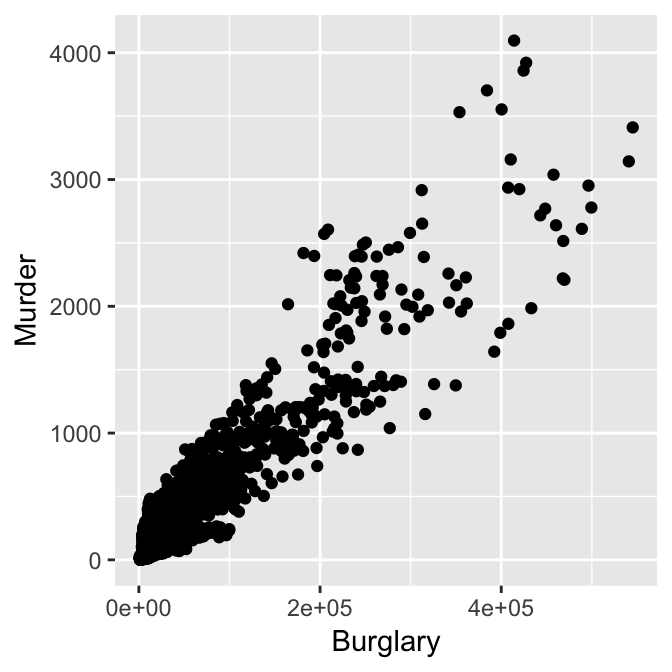
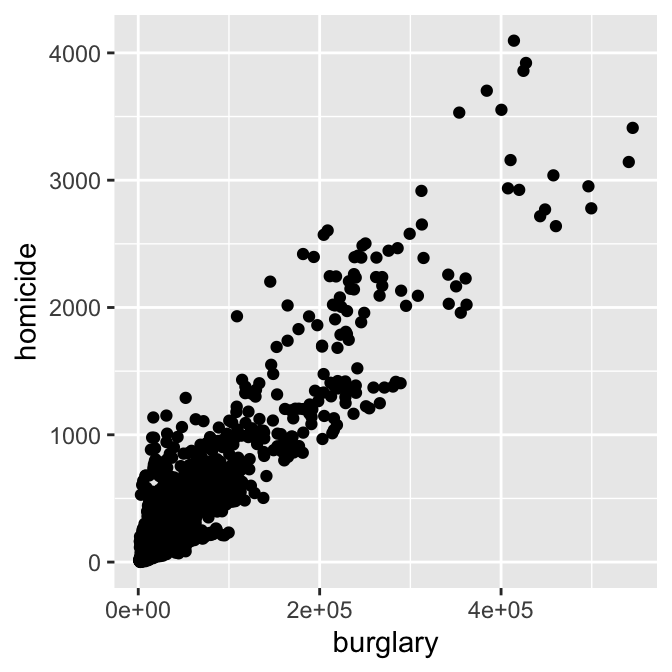
updates

diff --git a/Lecture2-R-basics/02_r-graphics.html b/Lecture2-R-basics/02_r-graphics.html
@@ -15,44 +15,73 @@
   
   
     <style type="text/css">
-   div.sourceCode { overflow-x: auto; }
-   table.sourceCode, tr.sourceCode, td.lineNumbers, td.sourceCode {
-     margin: 0; padding: 0; vertical-align: baseline; border: none; }
-   table.sourceCode { width: 100%; line-height: 100%; }
-   td.lineNumbers { text-align: right; padding-right: 4px; padding-left: 4px; color: #aaaaaa; border-right: 1px solid #aaaaaa; }
-   td.sourceCode { padding-left: 5px; }
-   code > span.kw { color: #007020; font-weight: bold; } /* Keyword */
-   code > span.dt { color: #902000; } /* DataType */
-   code > span.dv { color: #40a070; } /* DecVal */
-   code > span.bn { color: #40a070; } /* BaseN */
-   code > span.fl { color: #40a070; } /* Float */
-   code > span.ch { color: #4070a0; } /* Char */
-   code > span.st { color: #4070a0; } /* String */
-   code > span.co { color: #60a0b0; font-style: italic; } /* Comment */
-   code > span.ot { color: #007020; } /* Other */
-   code > span.al { color: #ff0000; font-weight: bold; } /* Alert */
-   code > span.fu { color: #06287e; } /* Function */
-   code > span.er { color: #ff0000; font-weight: bold; } /* Error */
-   code > span.wa { color: #60a0b0; font-weight: bold; font-style: italic; } /* Warning */
-   code > span.cn { color: #880000; } /* Constant */
-   code > span.sc { color: #4070a0; } /* SpecialChar */
-   code > span.vs { color: #4070a0; } /* VerbatimString */
-   code > span.ss { color: #bb6688; } /* SpecialString */
-   code > span.im { } /* Import */
-   code > span.va { color: #19177c; } /* Variable */
-   code > span.cf { color: #007020; font-weight: bold; } /* ControlFlow */
-   code > span.op { color: #666666; } /* Operator */
-   code > span.bu { } /* BuiltIn */
-   code > span.ex { } /* Extension */
-   code > span.pp { color: #bc7a00; } /* Preprocessor */
-   code > span.at { color: #7d9029; } /* Attribute */
-   code > span.do { color: #ba2121; font-style: italic; } /* Documentation */
-   code > span.an { color: #60a0b0; font-weight: bold; font-style: italic; } /* Annotation */
-   code > span.cv { color: #60a0b0; font-weight: bold; font-style: italic; } /* CommentVar */
-   code > span.in { color: #60a0b0; font-weight: bold; font-style: italic; } /* Information */
+   pre > code.sourceCode { white-space: pre; position: relative; }
+   pre > code.sourceCode > span { display: inline-block; line-height: 1.25; }
+   pre > code.sourceCode > span:empty { height: 1.2em; }
+   .sourceCode { overflow: visible; }
+   code.sourceCode > span { color: inherit; text-decoration: inherit; }
+   div.sourceCode { margin: 1em 0; }
+   pre.sourceCode { margin: 0; }
+   @media screen {
+   div.sourceCode { overflow: auto; }
+   }
+   @media print {
+   pre > code.sourceCode { white-space: pre-wrap; }
+   pre > code.sourceCode > span { text-indent: -5em; padding-left: 5em; }
+   }
+   pre.numberSource code
+     { counter-reset: source-line 0; }
+   pre.numberSource code > span
+     { position: relative; left: -4em; counter-increment: source-line; }
+   pre.numberSource code > span > a:first-child::before
+     { content: counter(source-line);
+       position: relative; left: -1em; text-align: right; vertical-align: baseline;
+       border: none; display: inline-block;
+       -webkit-touch-callout: none; -webkit-user-select: none;
+       -khtml-user-select: none; -moz-user-select: none;
+       -ms-user-select: none; user-select: none;
+       padding: 0 4px; width: 4em;
+       color: #aaaaaa;
+     }
+   pre.numberSource { margin-left: 3em; border-left: 1px solid #aaaaaa;  padding-left: 4px; }
+   div.sourceCode
+     {   }
+   @media screen {
+   pre > code.sourceCode > span > a:first-child::before { text-decoration: underline; }
+   }
+   code span.al { color: #ff0000; font-weight: bold; } /* Alert */
+   code span.an { color: #60a0b0; font-weight: bold; font-style: italic; } /* Annotation */
+   code span.at { color: #7d9029; } /* Attribute */
+   code span.bn { color: #40a070; } /* BaseN */
+   code span.bu { } /* BuiltIn */
+   code span.cf { color: #007020; font-weight: bold; } /* ControlFlow */
+   code span.ch { color: #4070a0; } /* Char */
+   code span.cn { color: #880000; } /* Constant */
+   code span.co { color: #60a0b0; font-style: italic; } /* Comment */
+   code span.cv { color: #60a0b0; font-weight: bold; font-style: italic; } /* CommentVar */
+   code span.do { color: #ba2121; font-style: italic; } /* Documentation */
+   code span.dt { color: #902000; } /* DataType */
+   code span.dv { color: #40a070; } /* DecVal */
+   code span.er { color: #ff0000; font-weight: bold; } /* Error */
+   code span.ex { } /* Extension */
+   code span.fl { color: #40a070; } /* Float */
+   code span.fu { color: #06287e; } /* Function */
+   code span.im { } /* Import */
+   code span.in { color: #60a0b0; font-weight: bold; font-style: italic; } /* Information */
+   code span.kw { color: #007020; font-weight: bold; } /* Keyword */
+   code span.op { color: #666666; } /* Operator */
+   code span.ot { color: #007020; } /* Other */
+   code span.pp { color: #bc7a00; } /* Preprocessor */
+   code span.sc { color: #4070a0; } /* SpecialChar */
+   code span.ss { color: #bb6688; } /* SpecialString */
+   code span.st { color: #4070a0; } /* String */
+   code span.va { color: #19177c; } /* Variable */
+   code span.vs { color: #4070a0; } /* VerbatimString */
+   code span.wa { color: #60a0b0; font-weight: bold; font-style: italic; } /* Warning */
   </style>
   
   
+      <script src="02_r-graphics_files/header-attrs-2.19/header-attrs.js"></script>
   
 </head>
 
@@ -65,95 +94,131 @@
 
   
   
-<section id="looking-at-data" class="titleslide slide level1"><h2 class="shout">Looking at data</h2></section><section id="data-exploration" class="slide level2">
+<section>
+<section id="looking-at-data" class="title-slide slide level1">
+<h2>Looking at data</h2>
+
+</section>
+<section id="data-exploration" class="slide level2">
 <h2>Data Exploration</h2>
 <ul>
-<li>asking good questions is important for any data exploration: “your data won’t speak unless you ask the right questions”</li>
-<li>a data exploration is a cycle of asking questions, looking at the answers, and deriving new questions from them</li>
-<li>for a sound exploration: start by checking individual variables, then move on to higher dimensions</li>
+<li>asking good questions is important for any data exploration: “your
+data won’t speak unless you ask the right questions”</li>
+<li>a data exploration is a cycle of asking questions, looking at the
+answers, and deriving new questions from them</li>
+<li>for a sound exploration: start by checking individual variables,
+then move on to higher dimensions</li>
 </ul>
 </section>
-<section id="an-example-exploration" class="titleslide slide level1"><h2 class="shout">An example exploration</h2></section><section id="your-turn" class="slide level2 white">
-<h2>Your turn</h2>
+<section>
+<section id="an-example-exploration" class="title-slide slide level1">
+<h2>An example exploration</h2>
+
+</section>
+<section id="your-turn" class="slide level2 white">
+<h2 class="white">Your turn</h2>
 <p><img class="cover" src="images/blue.jpeg" alt="" width=2000></p>
-<p><span style="color:white"> Write down questions that you could answer with this data 4 minutes by yourself, then pair up for another 3 minutes, and we’ll write ideas on the board</span></p>
-<div class="sourceCode"><pre class="sourceCode r"><code class="sourceCode r"><span class="kw">library</span>(classdata)
-<span class="kw">head</span>(fbiwide)</code></pre></div>
-<pre><code>##     State Abb Year Population Violent.crime Murder Legacy.rape Rape
-## 1 Alabama  AL 1961    3302000          5564    427         252   NA
-## 2 Alabama  AL 1962    3358000          5283    316         218   NA
-## 3 Alabama  AL 1963    3347000          6115    340         192   NA
-## 4 Alabama  AL 1964    3407000          7260    316         397   NA
-## 5 Alabama  AL 1965    3462000          6916    395         367   NA
-## 6 Alabama  AL 1966    3517000          8098    384         341   NA
-##   Robbery Aggravated.assault Property.crime Burglary Larceny.theft
-## 1     630               4255          32541    11205         18801
-## 2     754               3995          35829    11722         21306
-## 3     828               4755          38521    12614         22874
-## 4     992               5555          46290    15898         26713
-## 5     992               5162          48215    16398         28115
-## 6    1124               6249          53740    18551         30583
-##   Motor.vehicle.theft
-## 1                2535
-## 2                2801
-## 3                3033
-## 4                3679
-## 5                3702
-## 6                4606</code></pre>
-</section><section id="plan-for-answers" class="slide level2">
+<p><span style="color:white"> Write down questions that you could answer
+with this data 4 minutes by yourself, then pair up for another 3
+minutes, and we’ll write ideas on the board</span></p>
+<div class="sourceCode" id="cb1"><pre class="sourceCode r"><code class="sourceCode r"><span id="cb1-1"><a href="#cb1-1" aria-hidden="true" tabindex="-1"></a><span class="fu">library</span>(classdata)</span>
+<span id="cb1-2"><a href="#cb1-2" aria-hidden="true" tabindex="-1"></a><span class="fu">head</span>(fbiwide)</span></code></pre></div>
+<pre><code>##     state state_id state_abbr year population violent_crime homicide
+## 1 Alabama        2         AL 1983    3959000         16471      364
+## 2 Alabama        2         AL 1985    4021000         18398      396
+## 3 Alabama        2         AL 1996    4273000         24159      444
+## 4 Alabama        2         AL 1997    4319000         24379      426
+## 5 Alabama        2         AL 1998    4352000         22286      354
+## 6 Alabama        2         AL 1999    4369862         21421      345
+##   rape_legacy rape_revised robbery aggravated_assault property_crime burglary
+## 1         931           NA    3895              11281         145890    42485
+## 2        1079           NA    4237              12686         140115    41612
+## 3        1397           NA    7124              15194         181803    42821
+## 4        1396           NA    6931              15626         186809    43786
+## 5        1443           NA    5698              14791         177779    41965
+## 6        1513           NA    5297              14266         171398    38648
+##   larceny motor_vehicle_theft arson
+## 1   94279                9126   981
+## 2   88108               10395  1074
+## 3  123350               15632   944
+## 4  127616               15407   829
+## 5  120943               14871   671
+## 6  119616               13134   589</code></pre>
+</section>
+<section id="plan-for-answers" class="slide level2">
 <h2>Plan for answers</h2>
 <ul>
-<li>Explore how one (or more) variables are distributed: <em>barchart or histogram</em></li>
-<li>Explore how two variables are related: <em>scatterplot, boxplot, tile plot</em></li>
-<li>Explore how two variables are related, conditioned on other variables: <em>faceting, color &amp; other aesthetics</em></li>
+<li>Explore how one (or more) variables are distributed: <em>barchart or
+histogram</em></li>
+<li>Explore how two variables are related: <em>scatterplot, boxplot,
+tile plot</em></li>
+<li>Explore how two variables are related, conditioned on other
+variables: <em>faceting, color &amp; other aesthetics</em></li>
 </ul>
 <p>We will be using the <code>ggplot2</code> framework for plotting</p>
-<div class="sourceCode"><pre class="sourceCode r"><code class="sourceCode r"><span class="kw">library</span>(ggplot2)</code></pre></div>
-</section><section id="why-ggplot2" class="slide level2">
+<div class="sourceCode" id="cb3"><pre class="sourceCode r"><code class="sourceCode r"><span id="cb3-1"><a href="#cb3-1" aria-hidden="true" tabindex="-1"></a><span class="fu">library</span>(ggplot2)</span></code></pre></div>
+</section>
+<section id="why-ggplot2" class="slide level2">
 <h2>Why <code>ggplot2</code></h2>
 <ul>
-<li>Wildly popular package for statistical graphics: over 2.5 million downloads from CRAN in 2017 (several thousand times per day)</li>
+<li>Wildly popular package for statistical graphics: over 2.5 million
+downloads from CRAN in 2017 (several thousand times per day)</li>
 <li>Developed by Hadley Wickham (An ISU Alumni)</li>
 <li>Designed to adhere to good graphical practices</li>
 <li>Constructs plots using the concept of layers</li>
 <li>Supports a wide variety plot types and extensions</li>
-<li>Ported to different languages, e.g. <code>ggpy</code> </li>
-<li><a href="http://ggplot2.org/book/" class="uri">http://ggplot2.org/book/</a> or Hadley’s book <em>ggplot2: Elegant Graphics for Data Analysis</em> for reference</li>
+<li>Ported to different languages, e.g. <code>ggpy</code> </li>
+<li><a href="http://ggplot2.org/book/"
+class="uri">http://ggplot2.org/book/</a> or Hadley’s book <em>ggplot2:
+Elegant Graphics for Data Analysis</em> for reference</li>
 </ul>
-</section><section id="ggplot-function" class="slide level2">
+</section>
+<section id="ggplot-function" class="slide level2">
 <h2><code>ggplot</code> Function</h2>
-<p>The <code>ggplot</code> function is the basic workhorse of ggplot2</p>
+<p>The <code>ggplot</code> function is the basic workhorse of
+ggplot2</p>
 <ul>
 <li>Produces all plot types available with ggplot2</li>
 <li>Allows for plotting options within the function statement</li>
 <li>Creates an object that can be saved</li>
 <li>Plot layers can be added to modify plot complexity</li>
 </ul>
-</section><section id="ggplot-structure" class="slide level2">
+</section>
+<section id="ggplot-structure" class="slide level2">
 <h2><code>ggplot</code> Structure</h2>
 <p>The <code>ggplot</code> function has the basic syntax:</p>
 <p><code>ggplot(data, mappings) + geom_type(options)</code></p>
 <ul>
 <li>data: dataset to be used</li>
-<li>mappings: determines which variables are connected to which plot elements, mappings are done with <code>aes()</code></li>
-<li>type: determines type of the plot, e.g. <code>point</code>, <code>line</code>, <code>bar</code></li>
+<li>mappings: determines which variables are connected to which plot
+elements, mappings are done with <code>aes()</code></li>
+<li>type: determines type of the plot, e.g. <code>point</code>,
+<code>line</code>, <code>bar</code></li>
 <li>options: there are so, so many options!</li>
 </ul>
-</section><section id="scatterplots-in-ggplot2" class="slide level2">
+</section>
+<section id="scatterplots-in-ggplot2" class="slide level2">
 <h2>Scatterplots in <code>ggplot2</code></h2>
-<p><code>aes</code> allows us to specify mappings; scatterplots need a mapping for <code>x</code> and a mapping for <code>y</code>:</p>
-<div class="sourceCode"><pre class="sourceCode r"><code class="sourceCode r"><span class="kw">ggplot</span>(<span class="dt">data =</span> fbiwide, <span class="kw">aes</span>(<span class="dt">x =</span> Burglary, <span class="dt">y =</span> Murder)) <span class="op">+</span>
-<span class="st">  </span><span class="kw">geom_point</span>()</code></pre></div>
+<p><code>aes</code> allows us to specify mappings; scatterplots need a
+mapping for <code>x</code> and a mapping for <code>y</code>:</p>
+<div class="sourceCode" id="cb4"><pre class="sourceCode r"><code class="sourceCode r"><span id="cb4-1"><a href="#cb4-1" aria-hidden="true" tabindex="-1"></a><span class="fu">ggplot</span>(<span class="at">data =</span> fbiwide, <span class="fu">aes</span>(<span class="at">x =</span> burglary, <span class="at">y =</span> homicide)) <span class="sc">+</span></span>
+<span id="cb4-2"><a href="#cb4-2" aria-hidden="true" tabindex="-1"></a>  <span class="fu">geom_point</span>()</span></code></pre></div>
 <p><img src="02_r-graphics_files/figure-revealjs/unnamed-chunk-3-1.png" width="336" /></p>
-</section><section id="your-turn-1" class="slide level2 white">
-<h2>Your turn</h2>
+</section>
+<section id="your-turn-1" class="slide level2 white">
+<h2 class="white">Your turn</h2>
 <p><img class="cover" src="images/blue.jpeg" alt="" width=2000></p>
 <ul>
-<li><span style="color:white">Draw a scatterplot of the number of burglaries by murders.</span></li>
-<li><span style="color:white">Adjust the numbers of the above scatterplot to show log transformed numbers. How can we interpret the numbers on the axes?</span></li>
-<li><span style="color:white">Draw a scatterplot of the log transformed number of burglaries by motor vehicle thefts.</span></li>
+<li><span style="color:white">Draw a scatterplot of the number of
+burglaries by murders.</span></li>
+<li><span style="color:white">Adjust the numbers of the above
+scatterplot to show log transformed numbers. How can we interpret the
+numbers on the axes?</span></li>
+<li><span style="color:white">Draw a scatterplot of the log transformed
+number of burglaries by motor vehicle thefts.</span></li>
 </ul>
-</section><section id="revision---interpreting-scatterplots" class="slide level2">
+</section>
+<section id="revision---interpreting-scatterplots" class="slide level2">
 <h2>Revision - Interpreting Scatterplots</h2>
 <ul>
 <li>Big patterns
@@ -167,29 +232,48 @@
 <li>Outliers</li>
 </ul></li>
 </ul>
-</section><section id="aesthetics" class="slide level2">
+</section>
+<section id="aesthetics" class="slide level2">
 <h2>Aesthetics</h2>
 <p>Can map other variables to size, colour, shape, ….</p>
-<div class="sourceCode"><pre class="sourceCode r"><code class="sourceCode r"><span class="kw">ggplot</span>(<span class="kw">aes</span>(<span class="dt">x =</span> <span class="kw">log</span>(Burglary), <span class="dt">y =</span> <span class="kw">log</span>(Motor.vehicle.theft),
-           <span class="dt">colour=</span>Year), <span class="dt">data=</span>fbiwide) <span class="op">+</span><span class="st"> </span><span class="kw">geom_point</span>()</code></pre></div>
+<div class="sourceCode" id="cb5"><pre class="sourceCode r"><code class="sourceCode r"><span id="cb5-1"><a href="#cb5-1" aria-hidden="true" tabindex="-1"></a><span class="fu">ggplot</span>(<span class="fu">aes</span>(<span class="at">x =</span> <span class="fu">log</span>(burglary), <span class="at">y =</span> <span class="fu">log</span>(motor_vehicle_theft),</span>
+<span id="cb5-2"><a href="#cb5-2" aria-hidden="true" tabindex="-1"></a>           <span class="at">colour=</span>year), <span class="at">data=</span>fbiwide) <span class="sc">+</span> <span class="fu">geom_point</span>()</span></code></pre></div>
 <p><img src="02_r-graphics_files/figure-revealjs/unnamed-chunk-5-1.png" width="336" /></p>
-</section><section id="your-turn-2" class="slide level2 white">
-<h2>Your turn</h2>
+</section>
+<section id="your-turn-2" class="slide level2 white">
+<h2 class="white">Your turn</h2>
 <p><img class="cover" src="images/blue.jpeg" alt="" width=2000></p>
 <ul>
-<li><span style="color:white">Draw a scatterplot of the log transformed number of burglaries by motor vehicle thefts. Map the state variable to colour. Why is this a terrible idea?</span></li>
-<li><span style="color:white">Draw a scatterplot of the log transformed number of burglaries by motor vehicle thefts. Map Population to size. How do we interpret the output?</span></li>
-<li><span style="color:white">Which other aesthetics are there? Have a look at the <a href="https://www.rstudio.com/resources/cheatsheets/">RStudio cheat sheet on visualization</a> </span></li>
+<li><span style="color:white">Draw a scatterplot of the log transformed
+number of burglaries by motor vehicle thefts. Map the state variable to
+colour. Why is this a terrible idea?</span></li>
+<li><span style="color:white">Draw a scatterplot of the log transformed
+number of burglaries by motor vehicle thefts. Map Population to size.
+How do we interpret the output?</span></li>
+<li><span style="color:white">Which other aesthetics are there? Have a
+look at the <a
+href="https://www.rstudio.com/resources/cheatsheets/">RStudio cheat
+sheet on visualization</a> </span></li>
 </ul>
-<p><span style="color:white"><strong>Stretch goal</strong>: Draw a histogram of the state populations. </span></p>
-</section><section id="your-turn-3" class="slide level2 white">
-<h2>Your turn</h2>
+<p><span style="color:white"><strong>Stretch goal</strong>: Draw a
+histogram of the state populations. </span></p>
+</section>
+<section id="your-turn-3" class="slide level2 white">
+<h2 class="white">Your turn</h2>
 <p><img class="cover" src="images/blue.jpeg" alt="" width=2000></p>
 <ul>
-<li><span style="color:white">Compare the log transformed number of burglaries by motor vehicle thefts over years. How to make a nice plot?</span></li>
-<li><span style="color:white">Compare the log transformed number of burglaries by motor vehicle thefts over States, coloured by years.</span></li>
-<li><span style="color:white">Now, only focus on comparing California, Colorado, Iowa, Illinois, District of Columbia and New York. </span></li>
-<li><span style="color:white">We all know population is an important factor. How to compare different states by standardized population? </span></li>
+<li><span style="color:white">Compare the log transformed number of
+burglaries by motor vehicle thefts over years. How to make a nice
+plot?</span></li>
+<li><span style="color:white">Compare the log transformed number of
+burglaries by motor vehicle thefts over States, coloured by
+years.</span></li>
+<li><span style="color:white">Now, only focus on comparing California,
+Colorado, Iowa, Illinois, District of Columbia and New York.
+</span></li>
+<li><span style="color:white">We all know population is an important
+factor. How to compare different states by standardized population?
+</span></li>
 </ul>
 </section>
 

diff --git a/Lecture2-R-basics/02_r-graphics_files/header-attrs-2.19/header-attrs.js b/Lecture2-R-basics/02_r-graphics_files/header-attrs-2.19/header-attrs.js
@@ -1,0 +1,12 @@
+// Pandoc 2.9 adds attributes on both header and div. We remove the former (to
+// be compatible with the behavior of Pandoc < 2.8).
+document.addEventListener('DOMContentLoaded', function(e) {
+  var hs = document.querySelectorAll("div.section[class*='level'] > :first-child");
+  var i, h, a;
+  for (i = 0; i < hs.length; i++) {
+    h = hs[i];
+    if (!/^h[1-6]$/i.test(h.tagName)) continue;  // it should be a header h1-h6
+    a = h.attributes;
+    while (a.length > 0) h.removeAttribute(a[0].name);
+  }
+});
